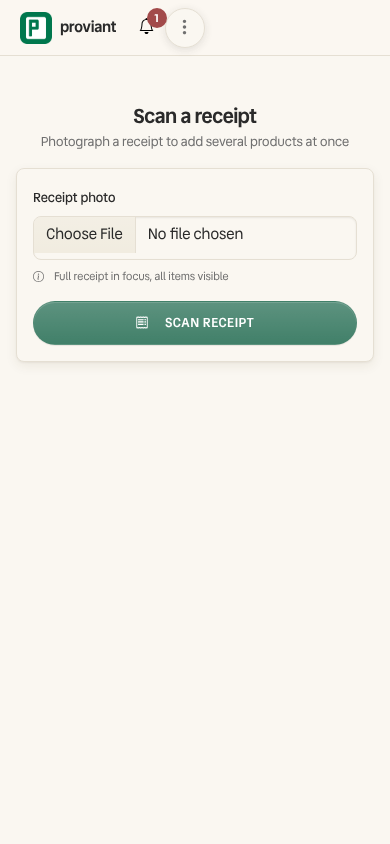
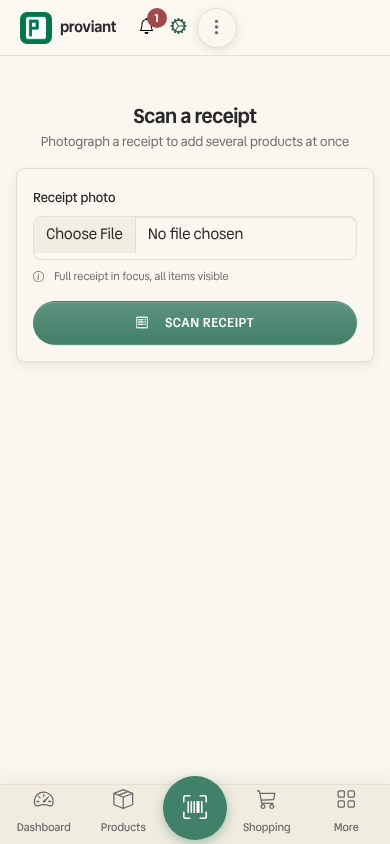
fix(ui): the utility cluster stays in one row on a phone
The settings button joined the more menu in the topbar, which left the
cluster a block: the more button dropped below the bell and the gear and
overlapped the page. The cluster is a row again, so the wordmark, the
bell, the settings and the more button share the topbar's line.

The manifest lists the tile's second line and the waste category's
stripe, and the deviations record that the settings sit in the topbar
rather than in the mobile more menu.

diff --git a/src/templates/scss/_fragments.scss b/src/templates/scss/_fragments.scss
@@ -144,7 +144,9 @@
 }
 
 .mobile-top-more {
-  display: block;
+  display: flex;
+  gap: var(--space-1);
+  align-items: center;
 }
 
 .mobile-top-more-btn {

diff --git a/src/assets/js/sw.js b/src/assets/js/sw.js
@@ -1,6 +1,6 @@
 'use strict';
 
-const CACHE_NAME = 'proviant-v159';
+const CACHE_NAME = 'proviant-v160';
 
 const PRECACHE_URLS = [
   '/manifest.json',

diff --git a/design-system/deviations.md b/design-system/deviations.md
@@ -44,6 +44,7 @@ sichtbar ist — einen messbaren Beleg (Kontrastwert, Route, Endpoint).
 | 27 | Die Produkttabelle steht in 900 px statt in der globalen Content-Breite | `DESIGN.md` §4 nennt 1120 px als maximale Content-Breite; die Spec-Sheets geben den Tabellenscreens 900 px, damit die Spalten eine lesbare Zeilenlänge behalten. Die Sheets sind die normative Schicht für die Anordnung, also misst die Produkttabelle 900 px; alle übrigen Screens behalten 1120 px. |
 | 28 | Das Formular-Panel des Auth-Screens steht links, das Brand-Panel rechts | `DESIGN.md` §6 schreibt das Brand-Panel nach links und das Formular nach rechts. Die Spec-Sheets zeichnen es umgekehrt, und die App folgt ihnen, bis die Norm nachgezogen ist. |
 | 29 | Die Eingabefelder sind 44 px hoch | `DESIGN.md` §5 nennt 40 px, die Spec-Sheets zeichnen 44 px — die Höhe, die auch die Mindestberührungsfläche der App verlangt. Die App folgt den Sheets. |
+| 30 | Die Einstellungen stehen in der Topnav, nicht im Mobile-More-Menü | `nav.md` legt die Einstellungen in das More-Menü. Auf dem Telefon ist das More-Menü zwei Klicks entfernt und die Einstellungen stehen rechts in der Topnav, wo sie mit einem Klick erreichbar sind. Die Sheets zeichnen die Einstellungen ebenfalls nicht im More-Menü. |
 ## Geprüfte Werte
 
 `task design-check` misst diese Paare und bricht ab, wenn eines unterschritten
